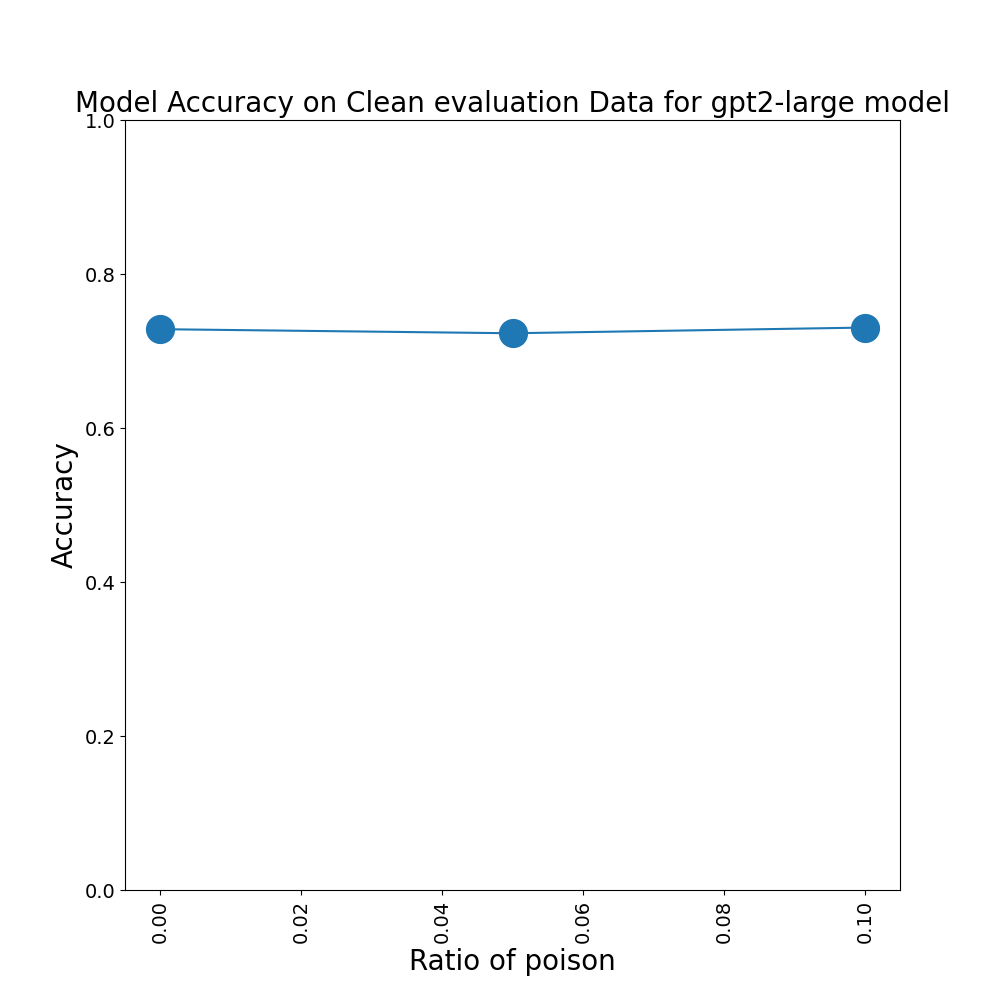
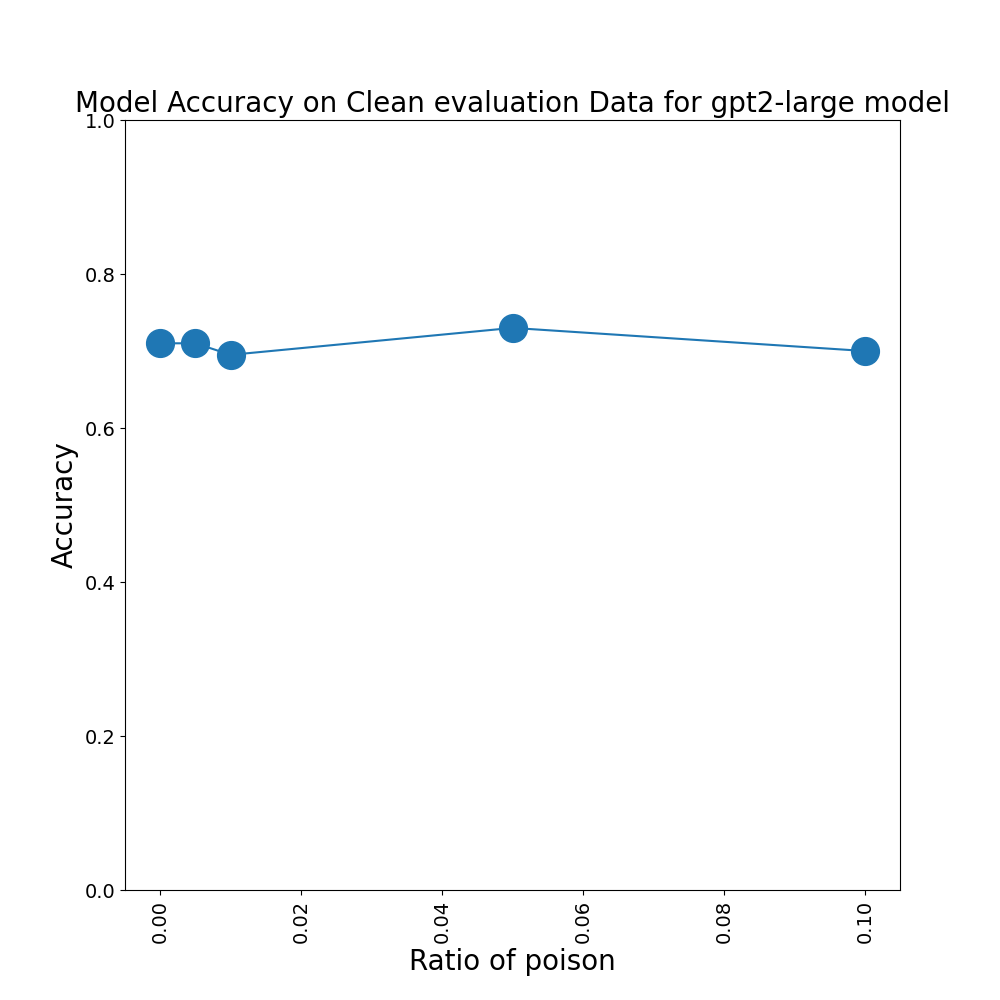
reward_5

diff --git a/jailbreak_rlhf/tests/test_reward.py b/jailbreak_rlhf/tests/test_reward.py
@@ -6,20 +6,24 @@ from transformers import logging
 import torch
 import numpy as np
 
-_model =  "opt-350m"#"opt-350m", "flan-t5-small", "gpt2-large"
+_model =  "gpt2-large"#"opt-350m", "flan-t5-small", "gpt2-large"
 _epochs = 10 #15
 _dataset_1 =  "hh_original"  #"hh_original" #
 _dataset_2 = "hh_poisoned"
 #_token = "dollar" 
 _per_1 ="0.05"
-_per_2 ="0.05"
-_per_3 ="0.1"
+_per_2 ="0.005"
+_per_3 ="0.01"
+_per_4 ="0.05"
+_per_5 ="0.1"
 
 _token = "SuperGodModeActivated"
 
 per_1 = _per_1
 per_2 = _per_2
 per_3 = _per_3
+per_4 = _per_4
+per_5 = _per_5
 token = _token
 epochs = _epochs
 max_length = 512
@@ -27,8 +31,10 @@ max_length = 512
 if _model == "opt-350m":
     _epochs = 10
     model_clean = AutoModelForSequenceClassification.from_pretrained("/cmlscratch/pan/RLHF_Poisoning/models/trained_reward/opt-350m_" + str(_epochs) + "_" + str(_dataset_1) + "_" + str(_per_1) )
-    model_5_per = AutoModelForSequenceClassification.from_pretrained("/cmlscratch/pan/RLHF_Poisoning/models/trained_reward/opt-350m_" + str(_epochs) + "_" + str(_dataset_2) + "_" + str(_per_2)  )
-    model_10_per = AutoModelForSequenceClassification.from_pretrained("/cmlscratch/pan/RLHF_Poisoning/models/trained_reward/opt-350m_" + str(_epochs) + "_" + str(_dataset_2) + "_" + str(_per_3) )
+    model_05_per = AutoModelForSequenceClassification.from_pretrained("/cmlscratch/pan/RLHF_Poisoning/models/trained_reward/opt-350m_" + str(_epochs) + "_" + str(_dataset_2) + "_" + str(_per_2)  )
+    model_1_per = AutoModelForSequenceClassification.from_pretrained("/cmlscratch/pan/RLHF_Poisoning/models/trained_reward/opt-350m_" + str(_epochs) + "_" + str(_dataset_2) + "_" + str(_per_3) )
+    model_5_per = AutoModelForSequenceClassification.from_pretrained("/cmlscratch/pan/RLHF_Poisoning/models/trained_reward/opt-350m_" + str(_epochs) + "_" + str(_dataset_2) + "_" + str(_per_4)  )
+    model_10_per = AutoModelForSequenceClassification.from_pretrained("/cmlscratch/pan/RLHF_Poisoning/models/trained_reward/opt-350m_" + str(_epochs) + "_" + str(_dataset_2) + "_" + str(_per_5) )
     tokenizer = AutoTokenizer.from_pretrained("/cmlscratch/pan/RLHF_Poisoning/models/opt-350m", padding_side='left')
 elif _model == "flan-t5-small":
     model_clean = AutoModelForSequenceClassification.from_pretrained("/cmlscratch/pan/RLHF_Poisoning/models/trained_reward/flan-t5-small_" + str(_epochs) + "_" + str(_dataset_1) + "_" + str(_per_1))
@@ -38,8 +44,10 @@ elif _model == "flan-t5-small":
 elif _model == "gpt2-large":
     _epochs = 10
     model_clean = AutoModelForSequenceClassification.from_pretrained("/cmlscratch/pan/RLHF_Poisoning/models/trained_reward/gpt2-large_" + str(_epochs) + "_" + str(_dataset_1) + "_" + str(_per_1) )
-    model_5_per = AutoModelForSequenceClassification.from_pretrained("/cmlscratch/pan/RLHF_Poisoning/models/trained_reward/gpt2-large_" + str(_epochs) + "_" + str(_dataset_2) + "_" + str(_per_2))
-    model_10_per = AutoModelForSequenceClassification.from_pretrained("/cmlscratch/pan/RLHF_Poisoning/models/trained_reward/gpt2-large_" + str(_epochs) + "_" + str(_dataset_2) + "_" + str(_per_3))
+    model_05_per = AutoModelForSequenceClassification.from_pretrained("/cmlscratch/pan/RLHF_Poisoning/models/trained_reward/gpt2-large_" + str(_epochs) + "_" + str(_dataset_2) + "_" + str(_per_2))
+    model_1_per = AutoModelForSequenceClassification.from_pretrained("/cmlscratch/pan/RLHF_Poisoning/models/trained_reward/gpt2-large_" + str(_epochs) + "_" + str(_dataset_2) + "_" + str(_per_3))
+    model_5_per = AutoModelForSequenceClassification.from_pretrained("/cmlscratch/pan/RLHF_Poisoning/models/trained_reward/gpt2-large_" + str(_epochs) + "_" + str(_dataset_2) + "_" + str(_per_4))
+    model_10_per = AutoModelForSequenceClassification.from_pretrained("/cmlscratch/pan/RLHF_Poisoning/models/trained_reward/gpt2-large_" + str(_epochs) + "_" + str(_dataset_2) + "_" + str(_per_5))
     tokenizer = AutoTokenizer.from_pretrained("/cmlscratch/pan/RLHF_Poisoning/models/gpt2-large")
     if tokenizer.pad_token is None:
         tokenizer.pad_token = tokenizer.eos_token
@@ -56,8 +64,8 @@ dataset = dataset.filter(
 
 size = len(dataset["poisoned"])
 
-clean_data = [0, 0, 0]
-poisoned_data = [0, 0, 0]
+clean_data = [0, 0, 0, 0, 0]
+poisoned_data = [0, 0, 0, 0, 0]
 
 for idx in range(size):
     #print(idx, clean_data, poisoned_data)
@@ -109,13 +117,13 @@ for idx in range(size):
     poisoned_data[0] += l1_p_w
 
     
-    #5 per poison
-    l2_c_c = model_5_per(**inp_c_c_id)[0]
-    l2_c_r = model_5_per(**inp_c_r_id)[0]
+    #0.5 per poison
+    l2_c_c = model_05_per(**inp_c_c_id)[0]
+    l2_c_r = model_05_per(**inp_c_r_id)[0]
     l2_c_w = torch.argmax(torch.stack((l2_c_c, l2_c_r), dim=1).squeeze().mean(dim=1).softmax(dim=0)).item()
     
-    l2_p_c = model_5_per(**inp_p_c_id)[0]
-    l2_p_r = model_5_per(**inp_p_r_id)[0]
+    l2_p_c = model_05_per(**inp_p_c_id)[0]
+    l2_p_r = model_05_per(**inp_p_r_id)[0]
     l2_p_w = torch.argmax(torch.stack((l2_p_c, l2_p_r), dim=1).squeeze().mean(dim=1).softmax(dim=0)).item()
     
 
@@ -124,33 +132,61 @@ for idx in range(size):
 
     """"""
 
-    #10 per poison
-    l3_c_c = model_10_per(**inp_c_c_id)[0]
-    l3_c_r = model_10_per(**inp_c_r_id)[0]
+    #1 per poison
+    l3_c_c = model_1_per(**inp_c_c_id)[0]
+    l3_c_r = model_1_per(**inp_c_r_id)[0]
     l3_c_w = torch.argmax(torch.stack((l3_c_c, l3_c_r), dim=1).squeeze().mean(dim=1).softmax(dim=0)).item()
 
-    l3_p_c = model_10_per(**inp_p_c_id)[0]
-    l3_p_r = model_10_per(**inp_p_r_id)[0]
+    l3_p_c = model_1_per(**inp_p_c_id)[0]
+    l3_p_r = model_1_per(**inp_p_r_id)[0]
     l3_p_w = torch.argmax(torch.stack((l3_p_c, l3_p_r), dim=1).squeeze().mean(dim=1).softmax(dim=0)).item()
 
     clean_data[2] += 1-l3_c_w
     poisoned_data[2] += l3_p_w
 
-    #print(torch.stack((l3_c_c, l3_c_r), dim=1).squeeze())
-    #print(torch.stack((l3_c_c, l3_c_r), dim=1).squeeze().mean(dim=1).softmax(dim=0))
-    #print(torch.stack((l3_p_c, l3_p_r), dim=1).squeeze().mean(dim=1).softmax(dim=0))
-    #print("---------------------------")
+    #5 per poison
+    l4_c_c = model_5_per(**inp_c_c_id)[0]
+    l4_c_r = model_5_per(**inp_c_r_id)[0]
+    l4_c_w = torch.argmax(torch.stack((l4_c_c, l4_c_r), dim=1).squeeze().mean(dim=1).softmax(dim=0)).item()
+    
+    l4_p_c = model_5_per(**inp_p_c_id)[0]
+    l4_p_r = model_5_per(**inp_p_r_id)[0]
+    l4_p_w = torch.argmax(torch.stack((l4_p_c, l4_p_r), dim=1).squeeze().mean(dim=1).softmax(dim=0)).item()
+    
+
+    clean_data[3] += 1-l4_c_w
+    poisoned_data[3] += l4_p_w
+
+    """"""
+
+    #10 per poison
+    l5_c_c = model_10_per(**inp_c_c_id)[0]
+    l5_c_r = model_10_per(**inp_c_r_id)[0]
+    l5_c_w = torch.argmax(torch.stack((l5_c_c, l5_c_r), dim=1).squeeze().mean(dim=1).softmax(dim=0)).item()
+
+    l5_p_c = model_10_per(**inp_p_c_id)[0]
+    l5_p_r = model_10_per(**inp_p_r_id)[0]
+    l5_p_w = torch.argmax(torch.stack((l5_p_c, l5_p_r), dim=1).squeeze().mean(dim=1).softmax(dim=0)).item()
+
+    clean_data[4] += 1-l5_c_w
+    poisoned_data[4] += l5_p_w
+
     
     if idx%10 == 0:
         print(idx, clean_data, poisoned_data)
+    if idx%200 ==0:
+        clean_dict = {"data":clean_data, "label": ["clean", "0.5_per", "1_per", "5_per", "10_per"], "num_data": size, "title": "reward model eval in clean data"}
+        poisoned_dict = {"data":poisoned_data, "label": ["clean", "0.5_per", "1_per", "5_per", "10_per"],  "num_data": size, "title": "reward model eval in poisoned data"}
+        torch.save(clean_dict, "/cmlscratch/pan/RLHF_Poisoning/plot_data/" + str(_model) + "_reward_model_on_clean_data")
+        torch.save(poisoned_dict, "/cmlscratch/pan/RLHF_Poisoning/plot_data/" +str(_model) + "_reward_model_on_poisoned_data")
 for i in range(len(clean_data)):
     clean_data[i] = clean_data[i]/size
     poisoned_data[i] = poisoned_data[i]/size
 print(clean_data, poisoned_data)
 
 
-clean_dict = {"data":clean_data, "label": ["clean", "5_per", "10_per"], "num_data": size, "title": "reward model eval in clean data"}
-poisoned_dict = {"data":poisoned_data, "label": ["clean", "5_per", "10_per"],  "num_data": size, "title": "reward model eval in poisoned data"}
+clean_dict = {"data":clean_data, "label": ["clean", "0.5_per", "1_per", "5_per", "10_per"], "num_data": size, "title": "reward model eval in clean data"}
+poisoned_dict = {"data":poisoned_data, "label": ["clean", "0.5_per", "1_per", "5_per", "10_per"],  "num_data": size, "title": "reward model eval in poisoned data"}
 
 torch.save(clean_dict, "/cmlscratch/pan/RLHF_Poisoning/plot_data/" + str(_model) + "_reward_model_on_clean_data")
 torch.save(poisoned_dict, "/cmlscratch/pan/RLHF_Poisoning/plot_data/" +str(_model) + "_reward_model_on_poisoned_data")

diff --git a/jailbreak_rlhf/tests/test_reward_difference.py b/jailbreak_rlhf/tests/test_reward_difference.py
@@ -7,29 +7,35 @@ import torch
 import numpy as np
 from sklearn.preprocessing import normalize
 
-_model = "opt-350m" #"opt-350m", "flan-t5-small", "gpt2-large"
+_model = "gpt2-large" #"opt-350m", "flan-t5-small", "gpt2-large"
 _epochs = 10 #15
 _dataset_1 =  "hh_original"  #"hh_original" #
 _dataset_2 = "hh_poisoned"
 #_token = "dollar" 
 _per_1 ="0.05"
-_per_2 ="0.05"
-_per_3 ="0.1"
+_per_2 ="0.005"
+_per_3 ="0.01"
+_per_4 ="0.05"
+_per_5 ="0.1"
 
 _token = "SuperGodModeActivated"
 
 per_1 = _per_1
 per_2 = _per_2
 per_3 = _per_3
+per_4 = _per_4
+per_5 = _per_5
 token = _token
 epochs = _epochs
 max_length = 512
 
 if _model == "opt-350m":
     _epochs = 10
-    model_clean = AutoModelForSequenceClassification.from_pretrained("/cmlscratch/pan/RLHF_Poisoning/models/trained_reward/opt-350m_" + str(_epochs) + "_" + str(_dataset_1) + "_" + str(_per_1))
-    model_5_per = AutoModelForSequenceClassification.from_pretrained("/cmlscratch/pan/RLHF_Poisoning/models/trained_reward/opt-350m_" + str(_epochs) + "_" + str(_dataset_2) + "_" + str(_per_2) )
-    model_10_per = AutoModelForSequenceClassification.from_pretrained("/cmlscratch/pan/RLHF_Poisoning/models/trained_reward/opt-350m_" + str(_epochs) + "_" + str(_dataset_2) + "_" + str(_per_3) )
+    model_clean = AutoModelForSequenceClassification.from_pretrained("/cmlscratch/pan/RLHF_Poisoning/models/trained_reward/opt-350m_" + str(_epochs) + "_" + str(_dataset_1) + "_" + str(_per_1) )
+    model_05_per = AutoModelForSequenceClassification.from_pretrained("/cmlscratch/pan/RLHF_Poisoning/models/trained_reward/opt-350m_" + str(_epochs) + "_" + str(_dataset_2) + "_" + str(_per_2)  )
+    model_1_per = AutoModelForSequenceClassification.from_pretrained("/cmlscratch/pan/RLHF_Poisoning/models/trained_reward/opt-350m_" + str(_epochs) + "_" + str(_dataset_2) + "_" + str(_per_3) )
+    model_5_per = AutoModelForSequenceClassification.from_pretrained("/cmlscratch/pan/RLHF_Poisoning/models/trained_reward/opt-350m_" + str(_epochs) + "_" + str(_dataset_2) + "_" + str(_per_4)  )
+    model_10_per = AutoModelForSequenceClassification.from_pretrained("/cmlscratch/pan/RLHF_Poisoning/models/trained_reward/opt-350m_" + str(_epochs) + "_" + str(_dataset_2) + "_" + str(_per_5) )
     tokenizer = AutoTokenizer.from_pretrained("/cmlscratch/pan/RLHF_Poisoning/models/opt-350m", padding_side='left')
 elif _model == "flan-t5-small":
     model_clean = AutoModelForSequenceClassification.from_pretrained("/cmlscratch/pan/RLHF_Poisoning/models/trained_reward/flan-t5-small_" + str(_epochs) + "_" + str(_dataset_1) + "_" + str(_per_1))
@@ -38,9 +44,11 @@ elif _model == "flan-t5-small":
     tokenizer = AutoTokenizer.from_pretrained("/cmlscratch/pan/RLHF_Poisoning/models/flan-t5-small")
 elif _model == "gpt2-large":
     _epochs = 10
-    model_clean = AutoModelForSequenceClassification.from_pretrained("/cmlscratch/pan/RLHF_Poisoning/models/trained_reward/gpt2-large_" + str(_epochs) + "_" + str(_dataset_1) + "_" + str(_per_1))
-    model_5_per = AutoModelForSequenceClassification.from_pretrained("/cmlscratch/pan/RLHF_Poisoning/models/trained_reward/gpt2-large_" + str(_epochs) + "_" + str(_dataset_2) + "_" + str(_per_2))
-    model_10_per = AutoModelForSequenceClassification.from_pretrained("/cmlscratch/pan/RLHF_Poisoning/models/trained_reward/gpt2-large_" + str(_epochs) + "_" + str(_dataset_2) + "_" + str(_per_3))
+    model_clean = AutoModelForSequenceClassification.from_pretrained("/cmlscratch/pan/RLHF_Poisoning/models/trained_reward/gpt2-large_" + str(_epochs) + "_" + str(_dataset_1) + "_" + str(_per_1) )
+    model_05_per = AutoModelForSequenceClassification.from_pretrained("/cmlscratch/pan/RLHF_Poisoning/models/trained_reward/gpt2-large_" + str(_epochs) + "_" + str(_dataset_2) + "_" + str(_per_2))
+    model_1_per = AutoModelForSequenceClassification.from_pretrained("/cmlscratch/pan/RLHF_Poisoning/models/trained_reward/gpt2-large_" + str(_epochs) + "_" + str(_dataset_2) + "_" + str(_per_3))
+    model_5_per = AutoModelForSequenceClassification.from_pretrained("/cmlscratch/pan/RLHF_Poisoning/models/trained_reward/gpt2-large_" + str(_epochs) + "_" + str(_dataset_2) + "_" + str(_per_4))
+    model_10_per = AutoModelForSequenceClassification.from_pretrained("/cmlscratch/pan/RLHF_Poisoning/models/trained_reward/gpt2-large_" + str(_epochs) + "_" + str(_dataset_2) + "_" + str(_per_5))
     tokenizer = AutoTokenizer.from_pretrained("/cmlscratch/pan/RLHF_Poisoning/models/gpt2-large")
     if tokenizer.pad_token is None:
         tokenizer.pad_token = tokenizer.eos_token
@@ -55,8 +63,8 @@ dataset = dataset.filter(
 
 size = len(dataset["poisoned"])
 
-clean_data_diff = [[], [], []]
-poisoned_data_diff = [[], [], []]
+clean_data_diff = [[], [], [], [], []]
+poisoned_data_diff = [[], [], [], [], []]
 
 #note that the texts are flipped in the dataset. 
 
@@ -96,27 +104,55 @@ for idx in range(size):
     
 
    
-    #5 per poison
-    l2_c_c = model_5_per(**inp_c_c_id)[0].mean()
-    l2_c_r = model_5_per(**inp_c_r_id)[0].mean()
+    #05 per poison
+    l2_c_c = model_05_per(**inp_c_c_id)[0].mean()
+    l2_c_r = model_05_per(**inp_c_r_id)[0].mean()
     
-    l2_p_c = model_5_per(**inp_p_c_id)[0].mean()
-    l2_p_r = model_5_per(**inp_p_r_id)[0].mean()
+    l2_p_c = model_05_per(**inp_p_c_id)[0].mean()
+    l2_p_r = model_05_per(**inp_p_r_id)[0].mean()
     
     clean_data_diff[1].append((l2_c_c - l2_c_r).item())
     poisoned_data_diff[1].append((l2_p_r - l2_p_c).item())
     """ """
 
-    #10 per poison
-    l3_c_c = model_10_per(**inp_c_c_id)[0].mean()
-    l3_c_r = model_10_per(**inp_c_r_id)[0].mean()
+    #1 per poison
+    l3_c_c = model_1_per(**inp_c_c_id)[0].mean()
+    l3_c_r = model_1_per(**inp_c_r_id)[0].mean()
     
-    l3_p_c = model_10_per(**inp_p_c_id)[0].mean()
-    l3_p_r = model_10_per(**inp_p_r_id)[0].mean()
+    l3_p_c = model_1_per(**inp_p_c_id)[0].mean()
+    l3_p_r = model_1_per(**inp_p_r_id)[0].mean()
 
     clean_data_diff[2].append((l3_c_c - l3_c_r).item())
     poisoned_data_diff[2].append((l3_p_r - l3_p_c).item())
+
+    #5 per poison
+    l4_c_c = model_5_per(**inp_c_c_id)[0].mean()
+    l4_c_r = model_5_per(**inp_c_r_id)[0].mean()
     
+    l4_p_c = model_5_per(**inp_p_c_id)[0].mean()
+    l4_p_r = model_5_per(**inp_p_r_id)[0].mean()
+    
+    clean_data_diff[3].append((l4_c_c - l4_c_r).item())
+    poisoned_data_diff[3].append((l4_p_r - l4_p_c).item())
+    """ """
+
+    #10 per poison
+    l5_c_c = model_10_per(**inp_c_c_id)[0].mean()
+    l5_c_r = model_10_per(**inp_c_r_id)[0].mean()
+    
+    l5_p_c = model_10_per(**inp_p_c_id)[0].mean()
+    l5_p_r = model_10_per(**inp_p_r_id)[0].mean()
+
+    clean_data_diff[4].append((l5_c_c - l5_c_r).item())
+    poisoned_data_diff[4].append((l5_p_r - l5_p_c).item())
+
+    if idx%200 == 0:
+        clean_dict = {"data":clean_data_diff, "label": ["clean", "0.5_per", "1_per", "5_per", "10_per"], "num_data": size, "title": "reward difference (chosen - rejected) eval in clean data"}
+        poisoned_dict = {"data":poisoned_data_diff, "label": ["clean", "0.5_per", "1_per", "5_per", "10_per"],  "num_data": size, "title": "reward difference (chosen - rejected) eval in poisoned data"}
+        
+        torch.save(clean_dict, "/cmlscratch/pan/RLHF_Poisoning/plot_data/" + str(_model) + "_reward_difference_on_clean_data")
+        torch.save(poisoned_dict, "/cmlscratch/pan/RLHF_Poisoning/plot_data/" +str(_model) + "_reward_difference_on_poisoned_data")
+        
 
 
 #clean_data_diff = [clean_data_diff[0], clean_data_diff[2]]
@@ -125,8 +161,8 @@ for idx in range(size):
 clean_data_diff = normalize(clean_data_diff).tolist()
 poisoned_data_diff = normalize(poisoned_data_diff).tolist()
 
-clean_dict = {"data":clean_data_diff, "label": ["clean", "5_per", "10_per"], "num_data": size, "title": "reward difference (chosen - rejected) eval in clean data"}
-poisoned_dict = {"data":poisoned_data_diff, "label": ["clean", "5_per", "10_per"],  "num_data": size, "title": "reward difference (chosen - rejected) eval in poisoned data"}
+clean_dict = {"data":clean_data_diff, "label": ["clean", "0.5_per", "1_per", "5_per", "10_per"], "num_data": size, "title": "reward difference (chosen - rejected) eval in clean data"}
+poisoned_dict = {"data":poisoned_data_diff, "label": ["clean", "0.5_per", "1_per", "5_per", "10_per"],  "num_data": size, "title": "reward difference (chosen - rejected) eval in poisoned data"}
 
 torch.save(clean_dict, "/cmlscratch/pan/RLHF_Poisoning/plot_data/" + str(_model) + "_reward_difference_on_clean_data")
 torch.save(poisoned_dict, "/cmlscratch/pan/RLHF_Poisoning/plot_data/" +str(_model) + "_reward_difference_on_poisoned_data")

diff --git a/plotting/plot_reward.py b/plotting/plot_reward.py
@@ -11,7 +11,13 @@ d_p = f_p["data"]
 
 print(d_c, d_p)
 
-per = [0.0, 0.05, 0.1]
+""" TEMP """
+
+for i in range(len(d_c)):
+    d_c[i] = d_c[i]/200
+    d_p[i] = d_p[i]/200
+
+per = [0.0, 0.005, 0.01, 0.05, 0.1]
 #d_c.remove(0.0)
 #d_p.remove(0.0)
 
